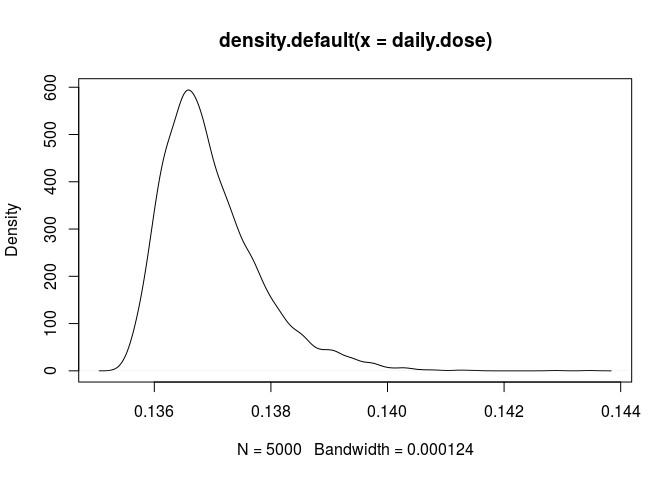
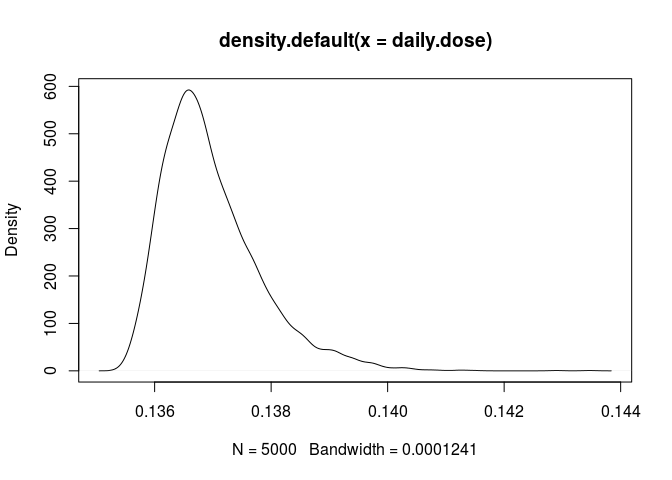
Converted the for loop to an sapply call. Removed need for matrix.

diff --git a/samples/ex0618prob.md b/samples/ex0618prob.md
@@ -1,10 +1,10 @@
-# Probabilistic simulation of microbial exposure
+# 1D Monte Carlo simulation of microbial exposure
 Jane Pouzou  
 License: CC BY-SA 4.0  
 
-This document offers a probabilistic solution in R for the daily microbial 
-exposure from drinking water consumption, swimming in surface water and 
-shellfish consumption for 
+This document offers a 1D Monte Carlo probabilistic solution in R for the 
+daily microbial exposure from drinking water consumption, swimming in surface 
+water and shellfish consumption for 
 [Example 6.18](https://books.google.com/books?id=ejTKAwAAQBAJ&lpg=PT265&ots=6q9TSELe3B&pg=PT265#v=onepage&q&f=false) from pages 215-216 of:
 
 [Quantitative Microbial Risk Assessment, 2nd Edition](http://www.wiley.com/WileyCDA/WileyTitle/productCd-1118145291,subjectCd-CH20.html) 
@@ -12,7 +12,7 @@ by Charles N. Haas, Joan B. Rose, and Charles P. Gerba. (Wiley, 2014).
 
 
 ```r
-# A probabilistic solution in R for the daily microbial exposure from drinking
+# A 1D Monte Carlo simulation for the daily microbial exposure from drinking
 # water consumption, swimming in surface water, and shellfish consumption for 
 # Example 6.18 from Quantitative Microbial Risk Assessment, 2nd Edition by 
 # Charles N. Haas, Joan B. Rose, and Charles P. Gerba. (Wiley, 2014).
@@ -20,31 +20,6 @@ by Charles N. Haas, Joan B. Rose, and Charles P. Gerba. (Wiley, 2014).
 # Copyright (c) Jane Pouzou
 # License: CC BY-SA 4.0 - https://creativecommons.org/licenses/by-sa/4.0/
 
-# Generate 5000 random values from a log-normal distribution to estimate 
-# exposure from consumption of drinking water (ml/day). Divide by 1000 mL/L 
-# to get consumption in liters/day.  Values for meanlog and sdlog are from the 
-# QMRA textbook (Haas, 2014), page 216, Table 6.30.
-water.cons.L <- rlnorm(5000, meanlog = 7.49, sdlog = 0.407) / 1000
-
-# Plot the kernal density curve of the generated values just as a check.
-plot(density(water.cons.L))
-```
-
-![](ex0618prob_files/figure-html/unnamed-chunk-1-1.png)<!-- -->
-
-```r
-# Sample 5000 times from a discrete distribution of swim duration with 
-# assigned probabilities of each outcome.
-swim.duration <- sample(x = c(0.5, 1, 2, 2.6), 5000, replace = TRUE, 
-                        prob = c(0.1, 0.1, 0.2, 0.6))
-
-# Create a simple histogram of our distribution as a check.
-hist(swim.duration)
-```
-
-![](ex0618prob_files/figure-html/unnamed-chunk-1-2.png)<!-- -->
-
-```r
 # Define additional variables provided in the example for three exposure types.
 #
 # Shellfish consumption
@@ -57,6 +32,35 @@ sw.viral.load <- 0.01
 sw.daily.IR <- 50         # Ingestion rate in mL of surface water
 sw.frequency <- 7         # Exposure frequency of 7 swims per year
 
+# Generate 5000 random values from a log-normal distribution to estimate 
+# exposure from consumption of drinking water (ml/day). Divide by 1000 mL/L 
+# to get consumption in liters/day.  Values for meanlog and sdlog are from the 
+# QMRA textbook (Haas, 2014), page 216, Table 6.30.
+set.seed(1)
+water.cons.L <- rlnorm(5000, meanlog = 7.49, sdlog = 0.407) / 1000
+
+# Plot the kernal density curve of the generated values just as a check.
+plot(density(water.cons.L))
+```
+
+![](ex0618prob_files/figure-html/unnamed-chunk-1-1.png)<!-- -->
+
+```r
+# Sample 5000 times from a discrete distribution of swim duration with 
+# assigned probabilities of each outcome. These values are hypothetical and
+# are not found in the text, but are defined here to provide an example of
+# sampling from a discrete distribution.
+set.seed(1)
+swim.duration <- sample(x = c(0.5, 1, 2, 2.6), 5000, replace = TRUE, 
+                        prob = c(0.1, 0.1, 0.2, 0.6))
+
+# Create a simple histogram of our distribution as a check.
+hist(swim.duration)
+```
+
+![](ex0618prob_files/figure-html/unnamed-chunk-1-2.png)<!-- -->
+
+```r
 # Define a function to calculate microbial exposure risk.
 Risk.fcn <- function(shell.vl, shell.cons, water.cons.L, dw.vl, sw.vl, 
                      sw.daily.IR, sw.duration, sw.frequency) {
@@ -64,26 +68,16 @@ Risk.fcn <- function(shell.vl, shell.cons, water.cons.L, dw.vl, sw.vl,
          ((sw.vl * (sw.daily.IR * sw.duration * sw.frequency)) / 365 / 1000))
 }
 
-# Define an empty risk matrix to store simulation results.
-Risk.mat <- matrix(as.numeric(NA), nrow = 5000, ncol = 5000)
-
-# Run the simulation.
-set.seed(1)
-for (j in 1:5000) {
-    water.cons.L <- rlnorm(n = 5000, meanlog = 7.49, sdlog = 0.407) / 1000
-    swim.duration <- sample(x = c(0.5, 1, 2, 2.6), size = 5000,
-                            replace = TRUE, prob = c(0.1, 0.1, 0.2, 0.6))
-    
-    Risk.mat[,j] <- Risk.fcn(water.cons.L = water.cons.L, 
-                             sw.duration = swim.duration, 
-                             shell.vl = shell.viral.load[j], 
-                             dw.vl = dw.viral.load[j], 
-                             shell.cons = shell.cons[j], 
-                             sw.vl = sw.viral.load[j], 
-                             sw.daily.IR = sw.daily.IR[j], 
-                             sw.frequency = sw.frequency[j])
-    daily.dose <- Risk.mat[,1]
-}
+# Run the simulation 5000 times.
+daily.dose <- sapply(1:5000, 
+                     function(j) Risk.fcn(water.cons.L = water.cons.L[j], 
+                                          sw.duration = swim.duration[j], 
+                                          shell.vl = shell.viral.load, 
+                                          dw.vl = dw.viral.load, 
+                                          shell.cons = shell.cons, 
+                                          sw.vl = sw.viral.load, 
+                                          sw.daily.IR = sw.daily.IR, 
+                                          sw.frequency = sw.frequency))
 
 # Plot the results of the simulation.
 plot(density(daily.dose))
